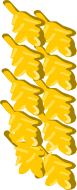
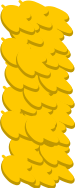
updated wheat image

diff --git a/src/app/kh-farm-random/kh-farm-random.component.html b/src/app/kh-farm-random/kh-farm-random.component.html
@@ -1,8 +1,9 @@
 <svg #lowerRenderEl class="lowerRenderEl" viewBox="0 0 500 500">
    <defs>
-      <image id="wheatPNG" href="../../assets/newWheat.png" width="20px" height="50px"></image>
+      <image id="wheatPNG" href="../../assets/wheat.png" width="20px" height="50px"></image>
    </defs>
    <g id="background">
+      <image id="wheatPNG" href="../../assets/wheat.png" width="20px" height="50px"></image>
       <g id="g7394" transform="matrix(0.3511505,0,0,-0.3511505,-360.33881,492.28586)">
          <g id="g5552">
             <g id="g5554" />

diff --git a/src/app/kh-farm/kh-farm.component.html b/src/app/kh-farm/kh-farm.component.html
@@ -1,6 +1,6 @@
 <svg #lowerRenderEl class="lowerRenderEl" viewBox="0 0 500 500">
    <defs>
-      <image id="wheatPNG" href="../../assets/newWheat.png" width="20px" height="50px"></image>
+      <image id="wheatPNG" href="../../assets/wheat.png" width="20px" height="50px"></image>
    </defs>
    <g id="background">
       <g id="g7394" transform="matrix(0.3511505,0,0,-0.3511505,-360.33881,492.28586)">
